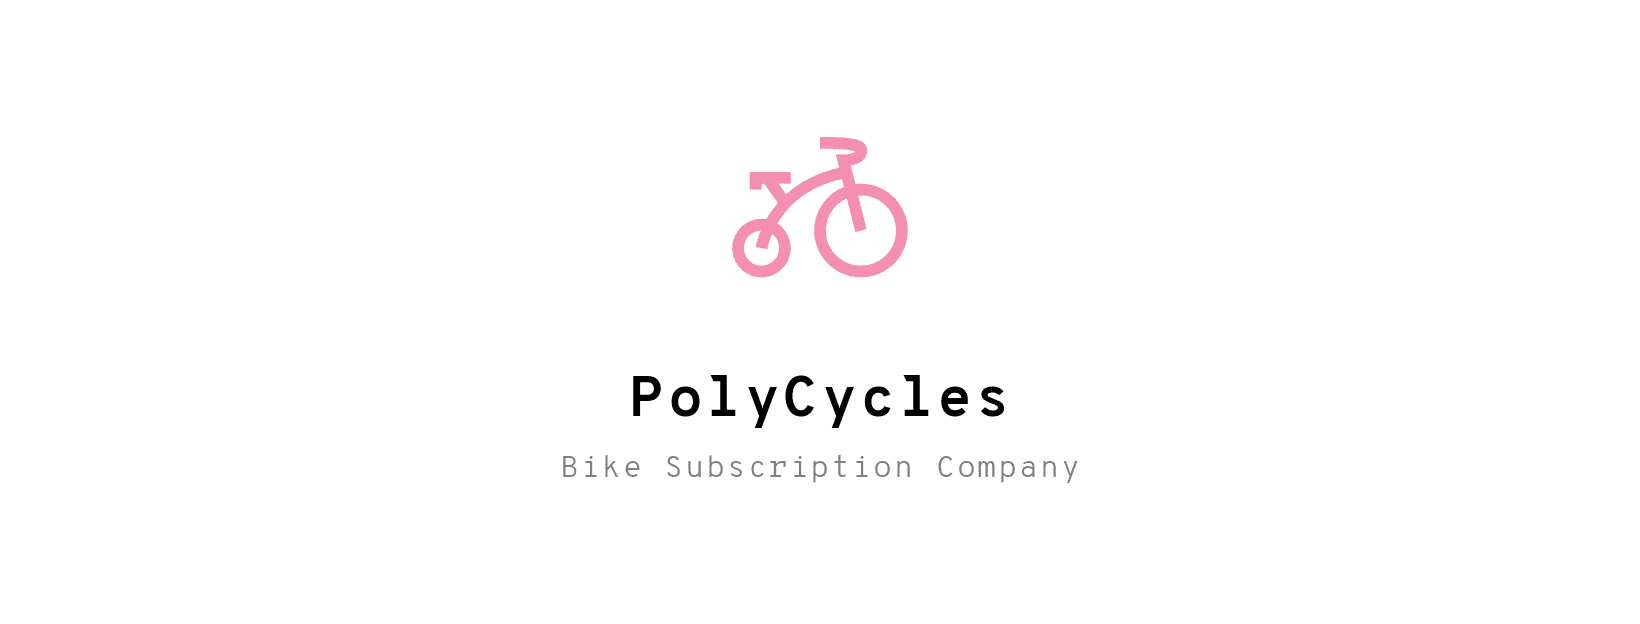
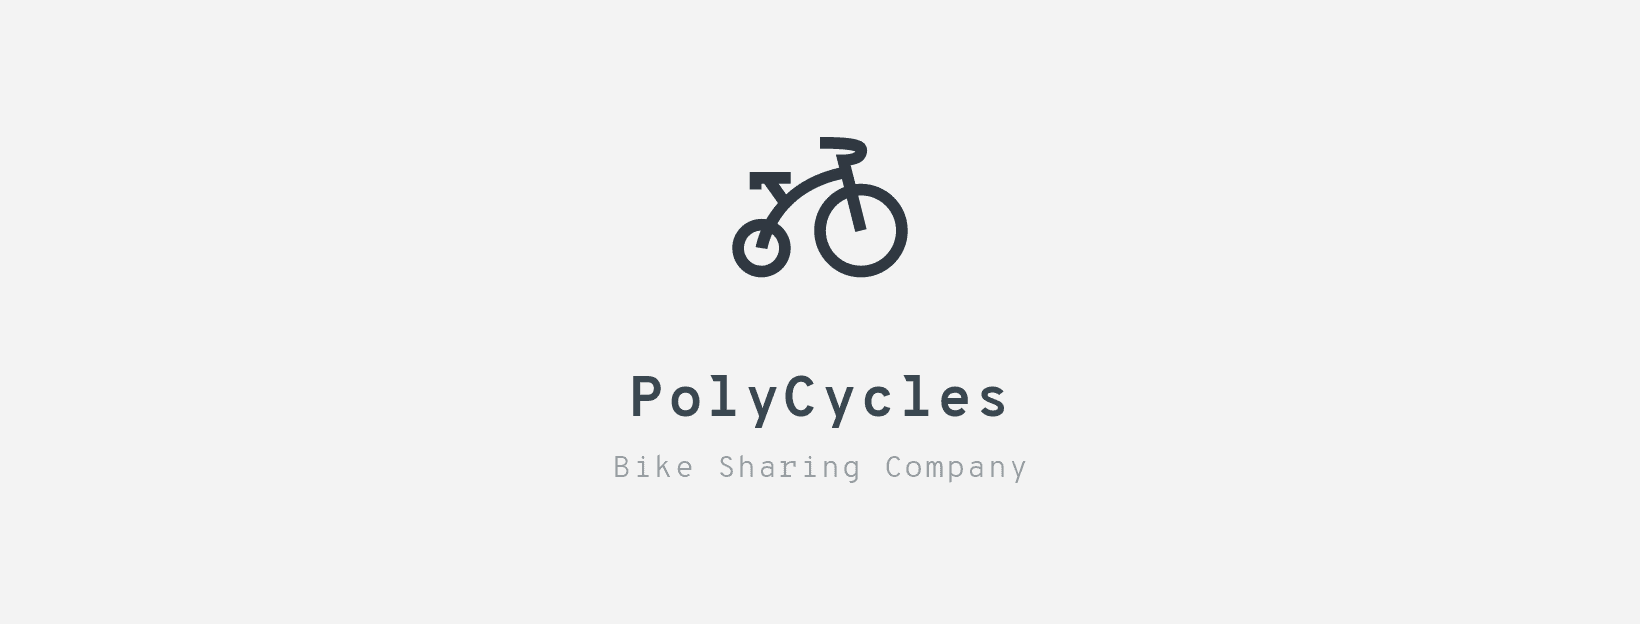
lots of ui and content tweaks

Changed region(s): [[0.4354, 0.2131, 0.5598, 0.4567], [0.3732, 0.609, 0.622, 0.6699], [0.3421, 0.7308, 0.653, 0.7917]]

diff --git a/src/components/DetailsContent/index.jsx b/src/components/DetailsContent/index.jsx
@@ -1,8 +1,7 @@
 import React from "react";
 import {useParams, Link} from "react-router-dom";
 // components
-import {BackButton, Carousel, Accordian} from "#components";
-import RentalForm from "./RentalForm";
+import {BackButton, Carousel, Accordian, GoogleForm} from "#components";
 import {AvailabilityOptions} from "#constants/bikes";
 const BikeListings = require("#data/BikeListingForm");
 
@@ -38,10 +37,10 @@ const BikeComponent = (props) => {
         <li className="list-group-item bg-transparent">
 
             <div className="row text-start ">
-                <div className="col-12 col-md-4">
+                <div className="col-6 ">
                     <strong>{label}</strong>
                 </div>
-                <div className="col-12 col-md-8">
+                <div className="col-6 text-end ">
                     {info}
                 </div>
             </div>
@@ -55,18 +54,18 @@ export const DetailsContent = () => {
     const bike = BikeListings.find(bike => bike["id"] == id);
     return ( 
     	<React.Fragment>
-            <div class="ps-2 ps-lg-5">
+            <div class="ms-2 ms-lg-5">
                 <BackButton />
             </div>
 
-            <div class="row pb-4">
+            <div class="row py-2">
                 <h1 class="text-center fw-normal">
                     Bikes Details
                 </h1>
             </div>
 
-            <div class="row justify-content-center pb-4">
-                <div class="col-10 col-lg-6 border">
+            <div class="row justify-content-center py-2">
+                <div class="col-11 col-lg-6 border ">
                     <div class="col-12 col-sm-8 col-lg-6 mx-auto">
                         <Carousel 
                             id="bikeDetails"
@@ -94,18 +93,11 @@ export const DetailsContent = () => {
                                     Availability
                                 </Accordian.Header>
                                 <Accordian.Body>
-                                    <ul className="list-group list-group-flush">
-
-                                        <BikeComponent 
-                                            label="Availability"
-                                            info={
-                                                <AvailabilityButtons
-                                                    availabilityList={bike["Availability"]}
-                                                />
-                                            }
+                                    <div class="text-start">
+                                        <AvailabilityButtons
+                                            availabilityList={bike["Availability"]}
                                         />
-
-                                    </ul>
+                                    </div>
                                 </Accordian.Body>
                             </Accordian.Item>
                             <Accordian.Item id="1">
@@ -401,7 +393,7 @@ export const DetailsContent = () => {
                 </div>
             </div>
 
-            <div class="row pt-4">
+            <div class="row my-4">
                 <h1 class="text-center fw-normal">
                     Rent It
                 </h1>
@@ -409,7 +401,7 @@ export const DetailsContent = () => {
 
 
             <div class="row justify-content-center">
-                <div class="col-11 col-lg-6 ">
+                <div class="col-10 col-lg-6">
                     <p class="text-start fw-normal">
                         Fill out the form below to rent this bike. Once we and the owner approve the rental we'll pick it up from them and deliver it to you. Before we deliver the bike, we'll inspect it to make sure that it's in good working order. When the rental duration ends, we'll pick the bike up from you, inspect it again, and do any service work. Besides normal wear and tear, the renter has to pay for us to clean and fix the bike if necessary. We will price match guarantee. 
                     </p>
@@ -421,11 +413,11 @@ export const DetailsContent = () => {
             </div>
 
 
-            <div class="row justify-content-center pb-4">
-                <div class="col-12 col-sm-10">
-                    <RentalForm />
-                </div>
-            </div>
+            <GoogleForm
+                webUrl="https://forms.gle/mU6DhNVxuE14HYXb6"
+                iframeUrl="https://docs.google.com/forms/d/e/1FAIpQLSddG5jzhsj4jOr7ElDy6XPjBSf3qv3V4SqkuyawiVjG34WOHA/viewform?embedded=true"
+                title="Rental Form"
+            />
         
 		</React.Fragment>
     );

diff --git a/src/constants/share.jsx b/src/constants/share.jsx
@@ -1,25 +1,25 @@
 export const ShareText = {
   shareUrl: "https://polycycles.com/",
   facebook: {
-    quote: ` Check out PolyCycles! A new bike subscription service making it easier and more affordable to own a bike. You can swap between road, mountain, electric bikes, and different wheelsets. They keep the bikes in perfect condition so that you never have to clean, fix, or replace anything ever again! It's easy!`,
+    quote: `Check out PolyCycles! A bike sharing and demos company. Rent your bike out while you're not using it. Rent other's bikes that you want to ride. Try demo bikes before buying. Swap between road, mountain, gravel, electric bikes, and coming soon, different wheelsets! They keep the bikes in perfect condition so that you never have to clean, fix, or replace anything ever again! It's easy! One month minimums, affordable rates, longterm bike replacement solution.`,
     hashtag: "#PolyCycles",
   },
   twitter: {
     via: "PolyCycles",
     hashtags: ["PolyCycles"],
-    title: `Check out PolyCycles! A new bike subscription service making it easier and more affordable to own a bike. You can swap between road, mountain, electric bikes, and different wheelsets.`,
+    title: `Check out PolyCycles! A bike sharing and demos company. Rent your bike, ride your neighbor's bike, and try retailer demo bikes. `,
   },
   reddit: {
-    title: "Check out PolyCycles! A new bike subscription service.",
+    title: "Check out PolyCycles! A bike sharing and demos company. Rent your bike, ride your neighbor's bike, and try retailer demo bikes. ",
   },
   email: {
-    subject: "Check out PolyCycles! A new bike subscription service.",
-    body: `Check out PolyCycles! A new bike subscription service making it easier and more affordable to own a bike. You can swap between road, mountain, electric bikes, and different wheelsets. They keep the bikes in perfect condition so that you never have to clean, fix, or replace anything ever again! It's easy!`,
+    subject: "Check out PolyCycles! A bike sharing and demos company.",
+    body: `Check out PolyCycles! A bike sharing and demos company. Rent your bike out while you're not using it. Rent other's bikes that you want to ride. Try demo bikes before buying. Swap between road, mountain, gravel, electric bikes, and coming soon, different wheelsets! They keep the bikes in perfect condition so that you never have to clean, fix, or replace anything ever again! It's easy! One month minimums, affordable rates, longterm bike replacement solution.`,
     seperator: "\n\n",
   },
   linkedIn: {
-    title: "Check out PolyCycles! A new bike subscription service.",
-    summary: `Check out PolyCycles! A new bike subscription service making it easier and more affordable to own a bike. You can swap between road, mountain, electric bikes, and different wheelsets. They keep the bikes in perfect condition so that you never have to clean, fix, or replace anything ever again! It's easy!`,
+    title: "Check out PolyCycles! A bike sharing and demos company.",
+    summary: `Check out PolyCycles! A bike sharing and demos company. Rent your bike out while you're not using it. Rent other's bikes that you want to ride. Try demo bikes before buying. Swap between road, mountain, gravel, electric bikes, and coming soon, different wheelsets! They keep the bikes in perfect condition so that you never have to clean, fix, or replace anything ever again! It's easy! One month minimums, affordable rates, longterm bike replacement solution.`,
     source: "PolyCycles",
   },
 };

diff --git a/src/components/ListingContent/index.jsx b/src/components/ListingContent/index.jsx
@@ -1,18 +1,18 @@
 import React from "react";
 // Components
-import ListingForm from "./ListingForm";
+import {GoogleForm} from "#components";
 
 export const ListingContent = () => {
 	return (
 		<React.Fragment>
-			<div class="row">
-			    <h1 class="text-center fw-light pb-2">
+			<div class="row mb-2">
+			    <h1 class="text-center fw-light ">
 			        New Listing
 			    </h1>
 			</div>
 
 			<div class="row justify-content-center">
-			    <div class="col-10 col-lg-6 ">
+			    <div class="col-10 col-lg-6">
 			        <p class="text-start fw-normal">
 			            Fill out the form below to list your bike. We'll review it and post it for you. If someone rents the bike, then we'll come out to pick it up and deliver it. When we pick it up, we'll inspect the bike to see if it needs any cleaning, repairs, or tuneups. The owner has to pay for any service work that we do but we'll offer a price match guarantee and give you a detailed report of the work we did. If you don't ride the bike between rentals then there shouldn't be a need for us to do any service work on it.
 			        </p>
@@ -23,11 +23,13 @@ export const ListingContent = () => {
 			    </div>
 			</div>
 
-			<div class="row justify-content-center">
-			    <div class="col-12 col-sm-10 ">
-			        <ListingForm/>
-			    </div>
-			</div>
+
+			<GoogleForm
+				webUrl="https://forms.gle/3zc8gYJpp36vKHhSA"
+				iframeUrl="https://docs.google.com/forms/d/e/1FAIpQLSc1-Iw0fnfVFMCX-luz4jAJPGC28WwSvssurBmYB_jcND2cHw/viewform?embedded=true"
+				title="Listing Application"
+			/>
+
 		</React.Fragment>
 	);
 }

diff --git a/src/components/Footer/index.jsx b/src/components/Footer/index.jsx
@@ -34,9 +34,30 @@ export const Footer = (props) => {
 						<div className="col-12  col-lg-4 col-xl-2 mb-3 text-start">
 							<span className="fw-light text-secondary">Socials</span>
 							<div className="navbar-nav text-light">
-								<Link className="nav-link text-light py-0" to="/kits">{FontIcons.facebookSquare} Facebook</Link>
-								<Link className="nav-link text-light py-0" to="/kits">{FontIcons.twitterSquare} Twitter</Link>
-								<Link className="nav-link text-light py-0" to="/kits">{FontIcons.discord} Discord</Link>
+								<a 
+									className="nav-link text-light py-0" 
+									href="https://twitter.com/polycycles"
+									target="_blank" 
+									rel="noreferrer"
+								>
+									{FontIcons.facebookSquare} Facebook
+								</a>
+								<a 
+									className="nav-link text-light py-0" 
+									href="https://twitter.com/polycycles"
+									target="_blank" 
+									rel="noreferrer"
+								>
+									{FontIcons.twitterSquare} Twitter
+								</a>
+								<a 
+									className="nav-link text-light py-0" 
+									href="https://discord.gg/skcfCKFeRh"
+									target="_blank" 
+									rel="noreferrer"
+								>
+									{FontIcons.discord} Discord
+								</a>
 							</div>
 						</div>
 

diff --git a/src/components/BikeGallery/index.jsx b/src/components/BikeGallery/index.jsx
@@ -15,14 +15,13 @@ export const BikeGallery = (props) => {
 
     return ( 
     	<React.Fragment>
-    		<div class="px-1 px-lg-5">
-				<div class="row">
-					<h1 class="text-center fw-light pb-0 pb-lg-2">
+				<div class="row my-2">
+					<h1 class="text-center fw-light">
 					    Bikes For Rent
 					</h1>
 				</div>
 
-				<div class="row py-1 py-lg-3">
+				<div class="row my-2">
 					<div class="col-12 text-end">
 						<div class="dropdown">
 						  <button class="btn btn-ouline-secondary dropdown-toggle" type="button" id="filterBikes" data-bs-toggle="dropdown" aria-expanded="false">
@@ -40,7 +39,7 @@ export const BikeGallery = (props) => {
 
 				</div>
 
-				<div class="row row-cols-1 row-cols-md-2 row-cols-xl-4 g-4">
+				<div class="row row-cols-1 row-cols-md-2 row-cols-xl-3 row-cols-xxl-4 g-5">
 					{
 						bikeListingsFiltered.length > 0 ?
 							bikeListingsFiltered.map((bike, id) => (
@@ -57,7 +56,6 @@ export const BikeGallery = (props) => {
 							<p class="fw-strong mx-auto">No bikes of this type.</p>
 					}
 				</div>
-			</div>
 		</React.Fragment>
     );
 }

diff --git a/src/components/GoogleForm/index.jsx b/src/components/GoogleForm/index.jsx
@@ -1,0 +1,35 @@
+import React from "react";
+import {FontIcons} from "#constants/icons";
+
+export const GoogleForm = (props) => {
+	const {iframeUrl, webUrl, title} = props;
+	return (
+		<React.Fragment>
+			<div class="row justify-content-center">
+			    <div class="col-12 col-sm-10 ">
+	            	<div className="card p-3 w-100 bg-secondary d-lg-none">
+	            		<p>
+	            			{title}
+	            		</p>
+	            		<a href={webUrl} target="_blank" rel="noreferrer" className="btn btn-dark mx-auto">Open in new window</a>
+	            	</div>
+
+	            	<div className="ratio ratio-21x9 d-block" style={{"minHeight":"100vh"}}>
+	    				<iframe 
+	    					src={iframeUrl} 
+	    					title={title}
+	    				>
+	    					Loading…
+	    				</iframe>
+	    			</div>
+	    			
+	    				<a href={webUrl} target="_blank" rel="noreferrer" className="text-dark float-end my-3 d-none d-lg-block">
+	    					Open form in new tab {FontIcons.externalLink}
+	    				</a>
+			    </div>
+			</div>
+		</React.Fragment>
+	);
+}
+
+export default GoogleForm;

diff --git a/src/components/Header/index.jsx b/src/components/Header/index.jsx
@@ -7,15 +7,15 @@ import logo from "#images/Brand/logo_transparent_bike.png";
 const TempBlogAlert = () => {
 	return (
 		<div className="alert alert-dismissible alert-secondary " role="alert">
-		  New blog posted!
+		  New blog posted! 
 			<a 
-				href="https://colinsteidtmann.medium.com/polycycles-a-bike-subscription-service-f6dd71d5b726"
+				href="https://colinsteidtmann.medium.com/polycycles-relaunches-e4c5760a23c6"
 				className="alert-link ms-2"
 				target="_blank"
 				rel="noreferrer"
 
 			>
-				PolyCycles — A Bike Subscription Service
+				PolyCycles Relaunches
 			</a>.
 			<button type="button" className="btn-close" data-bs-dismiss="alert" aria-label="Close"></button>
 		</div>
@@ -25,7 +25,7 @@ const TempBlogAlert = () => {
 export const Navbar = (props) => {
     return (
         <div className="mx-0 px-sm-3">
-        	
+        	<TempBlogAlert />
 			{/* ==== Main Navbar ==== */}
 			<nav className="navbar navbar-light bg-light">
 			  <div className="container-fluid ">

diff --git a/src/components/BikeGallery/GalleryCard.jsx b/src/components/BikeGallery/GalleryCard.jsx
@@ -23,13 +23,13 @@ const BikeComponent = (props) => {
 const GalleryCard = (props) => {
     const {id, image, title, size, type, price} = props;
     return (
-        <div class="col ">
+        <div class="col">
             <div class="card bg-transparent h-100">
               <img 
                 src={image} 
                 class="card-img-top" 
                 alt="Bike photo"
-                style={{"height":"35vh", "objectFit":"cover"}}
+                style={{"height":"auto", "objectFit":"cover"}}
                 />
                 <div class="card-body">
                     <h5 class="card-title">
@@ -62,7 +62,7 @@ const GalleryCard = (props) => {
                     </div>
                 </div>
 
-                <div class="row pt-3">
+                <div class="row mt-3">
                     <div class="col text-start">
                         <Link to={`/bikes/${id}`} class="btn btn-dark">View</Link>
                     </div>

diff --git a/public/index.html b/public/index.html
@@ -15,7 +15,7 @@
     />
     <meta 
       name="keywords" 
-      content="Road,Gravel,Mountain,MTB,Enduro,Downhill,Trail,Cyclocross,City,Cruiser,Hybrid,Steel,Titanium,Carbon fiber,Aluminum,Sram,Shimano,Disc,Rim,Brakes,Electronics,Aero,Light,Low cost,Inexpensive,Cheap,Sustainable,Fixie,Fixed gear,Wheelsets,Suspension,Tubeless,Fast,E-bike,Electric,Bike,Bicycle,Cycle"
+      content="Road,Gravel,Mountain,MTB,Enduro,Downhill,Trail,Cyclocross,City,Cruiser,Hybrid,Steel,Titanium,Carbon fiber,Aluminum,Sram,Shimano,Disc,Rim,Brakes,Electronics,Aero,Light,Low cost,Inexpensive,Cheap,Sustainable,Fixie,Fixed gear,Wheelsets,Suspension,Tubeless,Fast,E-bike,Electric,Bike,Bicycle,Cycle,Subscription,Rental,Rent,Demo"
     />
     <!--
       manifest.json provides metadata used when your web app is installed on a

diff --git a/src/pages/Help/index.jsx b/src/pages/Help/index.jsx
@@ -5,14 +5,14 @@ import {ContactForm} from "#components";
 export const Help = () => {
     return ( 
     	<React.Fragment>
-        	<div className="mx-1 m-lg-3">
+        	<div className="mx-1 mx-sm-5 my-3">
                 <div class="row justify-content-center">
                     <div class="col-11 col-md-9 col-lg-6">
                         <ContactForm
                             title="Contact Us"
                         />
 
-                        <p class="text-start fw-light py-5">
+                        <p class="text-start fw-light my-5">
                             We'll get back within 24 hours.
                         </p>
                     </div>

diff --git a/src/components/index.jsx b/src/components/index.jsx
@@ -5,6 +5,7 @@ export { default as Carousel } from "./Carousel/index";
 export { default as ContactForm } from "./ContactForm/index";
 export { default as DetailsContent } from "./DetailsContent/index";
 export { default as Footer } from "./Footer/index";
+export { default as GoogleForm } from "./GoogleForm/index";
 export { default as Header } from "./Header/index";
 export { default as ListingContent } from "./ListingContent/index";
 export { default as ShareButtons } from "./ShareButtons/index";

diff --git a/src/components/HomeContent/Banner.jsx b/src/components/HomeContent/Banner.jsx
@@ -6,7 +6,7 @@ import {b1} from "#images/Backgrounds";
 export const Banner = () => {
 	return (
 		<React.Fragment>
-			<div class="row justify-content-center my-4 mx-4">
+			<div class="row justify-content-center my-4 mx-2 mx-md-4">
 
 
 			    <div class="col-12 col-md-11 col-lg-6 text-start">
